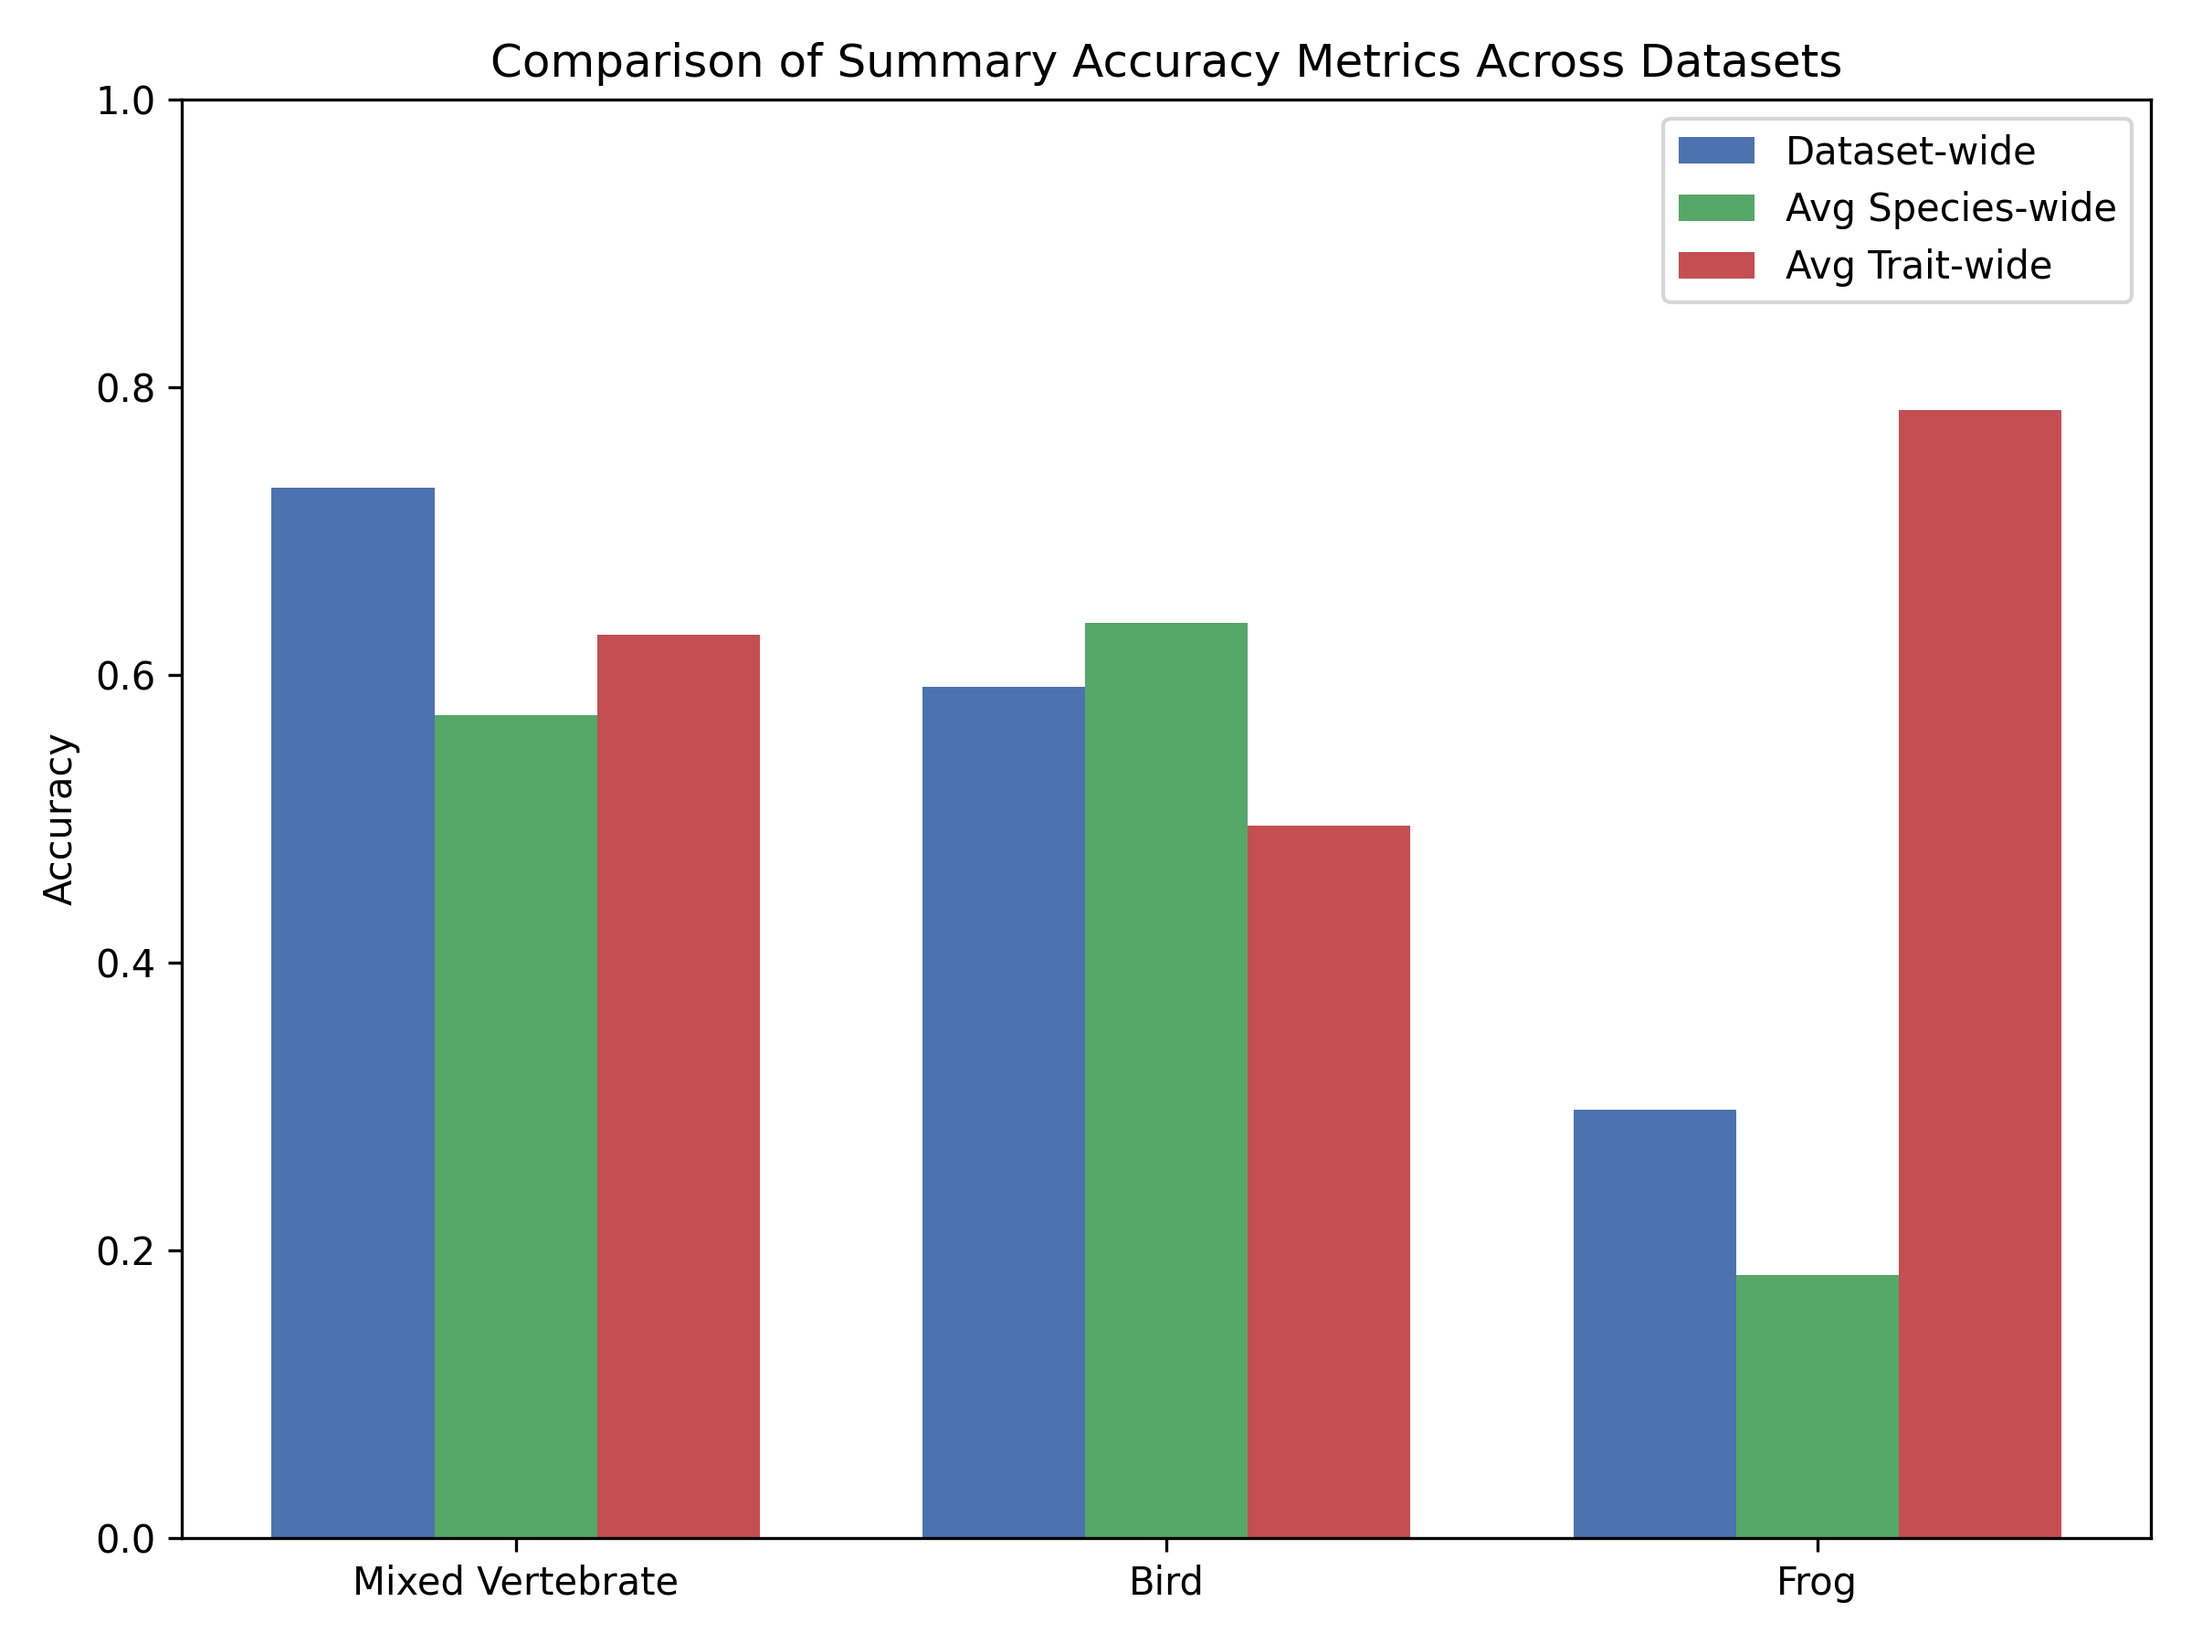
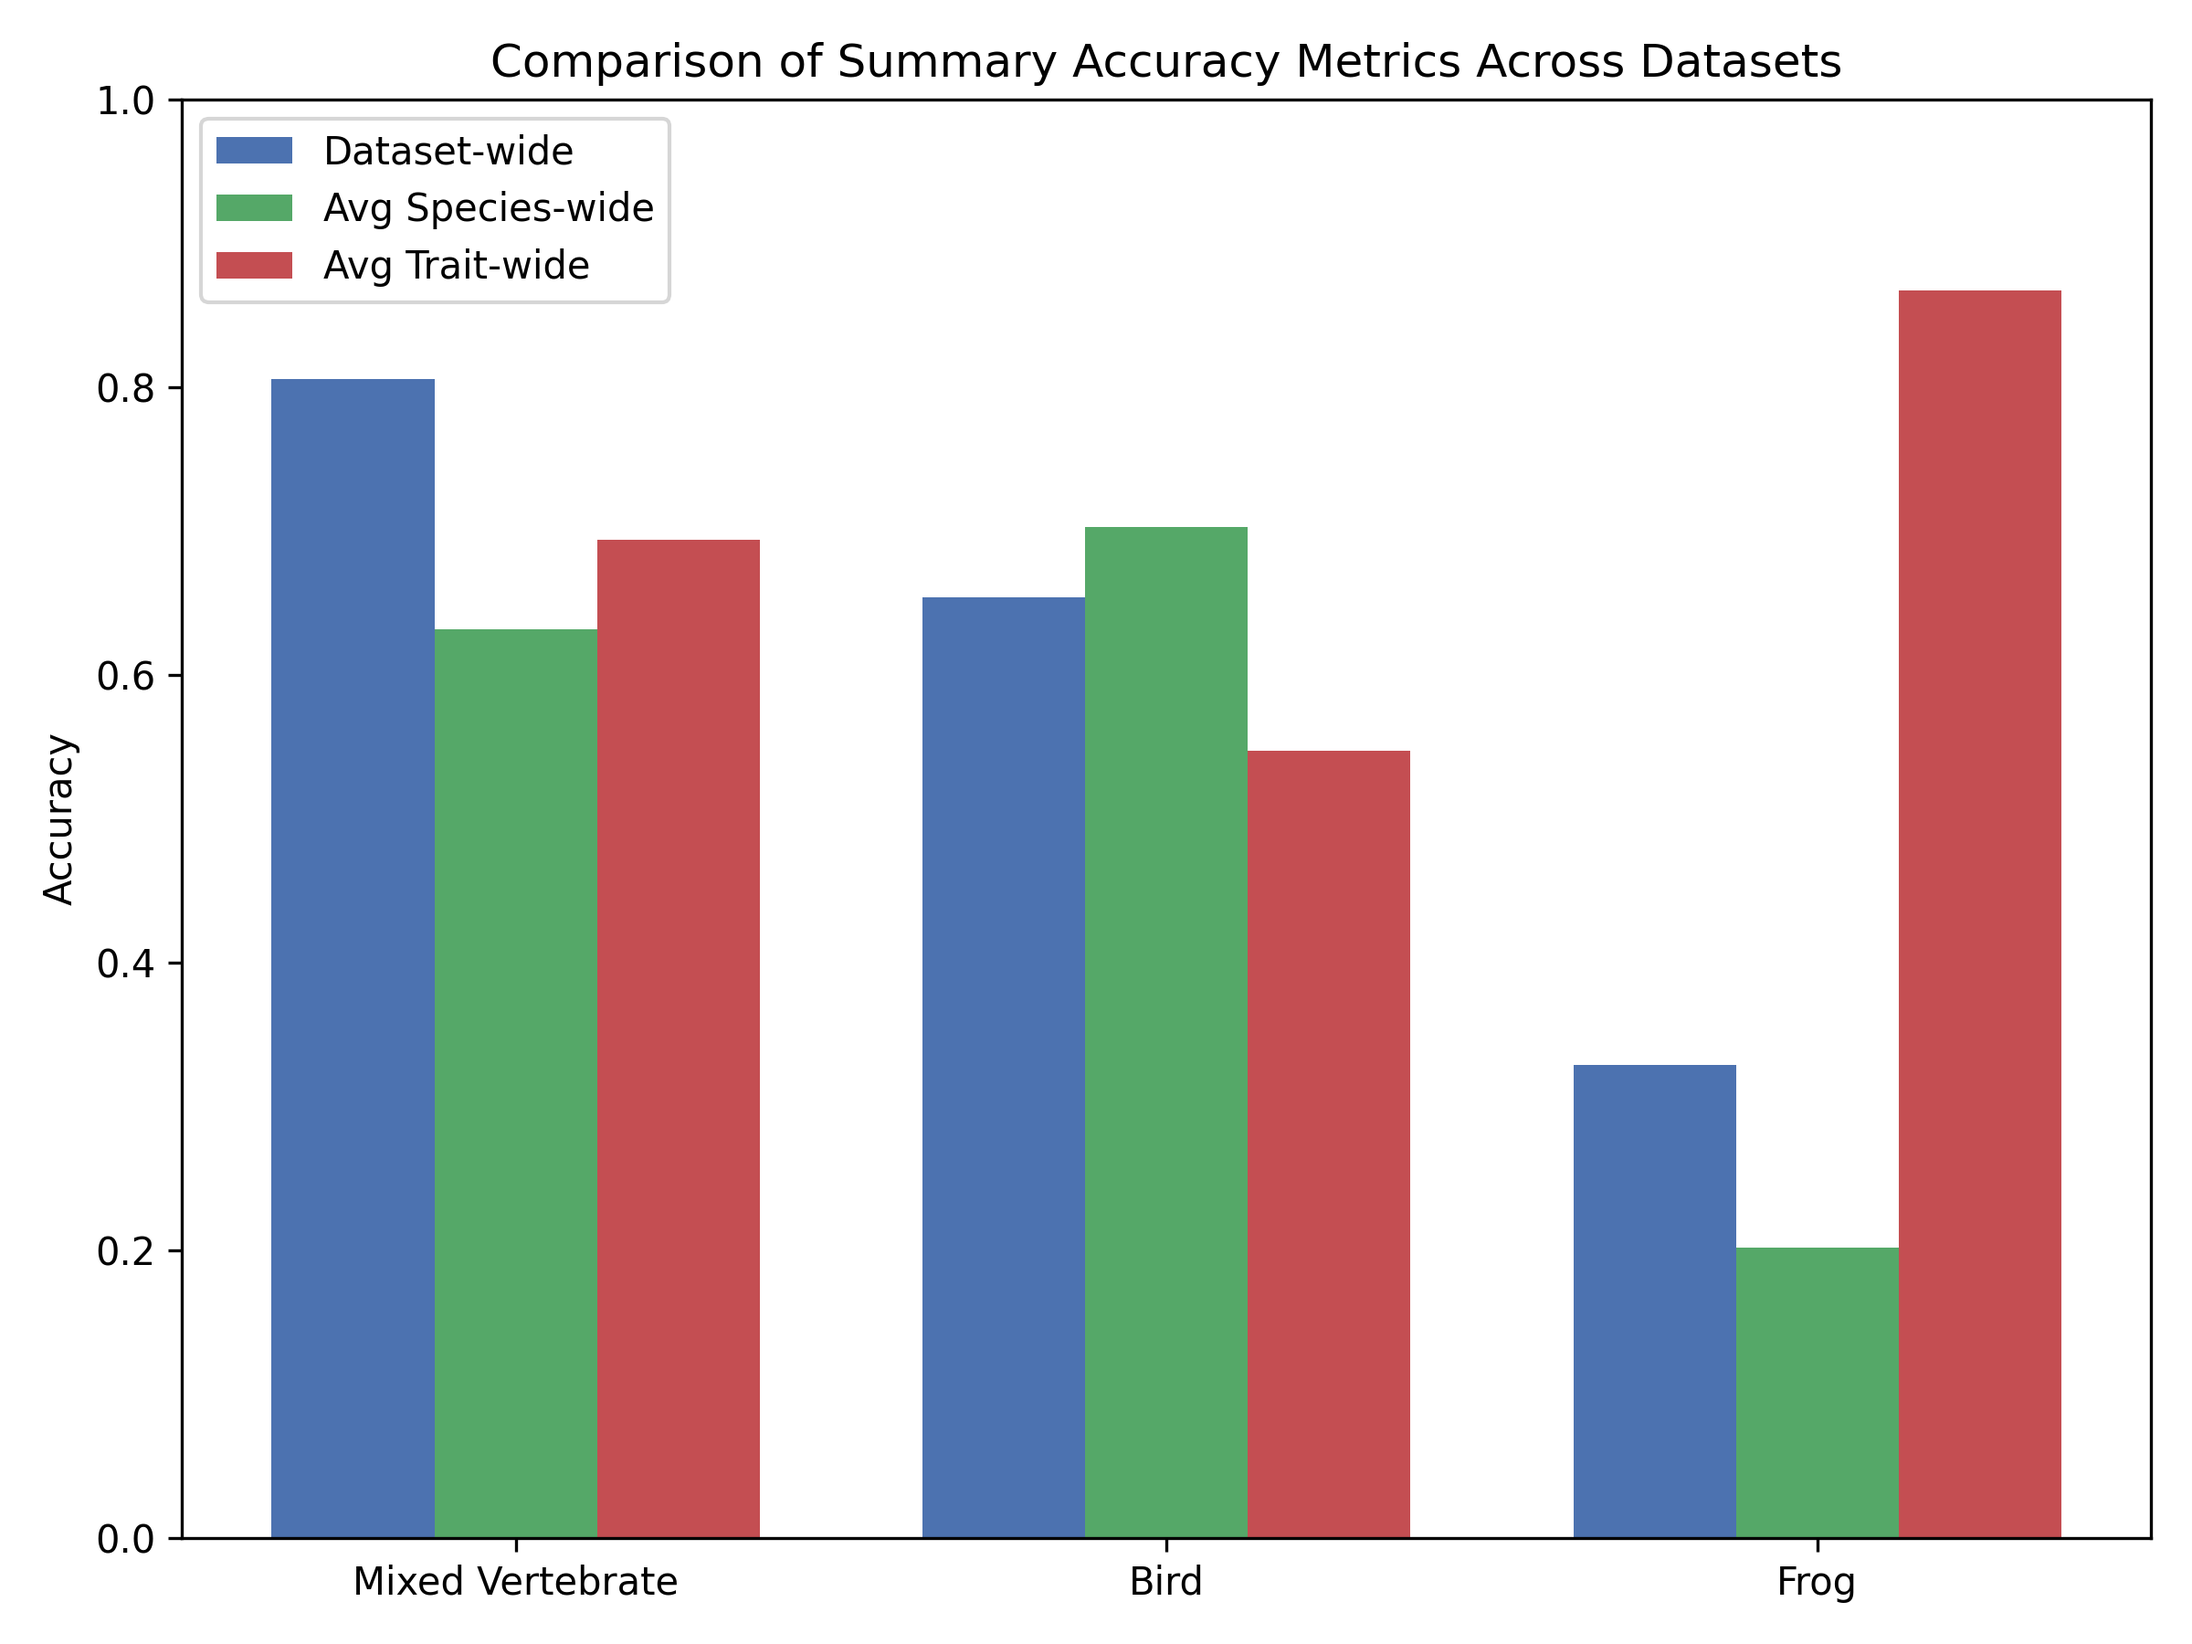
revised graphs

diff --git a/scripts/comparison_graphs.py b/scripts/comparison_graphs.py
@@ -1,26 +1,28 @@
 import matplotlib.pyplot as plt
 import numpy as np
 import os
+import pandas as pd
 
 ### OVERALL ACCURACIES ###
 
 average_species_accuracy = {
-    "Mixed Vertebrate": 0.572,
-    "Bird": 0.636,
-    "Frog": 0.183
+    "Mixed Vertebrate": 0.632,
+    "Bird": 0.703,
+    "Frog": 0.202
 }
 
 average_trait_accuracy = {
-    "Mixed Vertebrate": 0.628,
-    "Bird": 0.495,
-    "Frog": 0.784
+    "Mixed Vertebrate": 0.694,
+    "Bird": 0.547,
+    "Frog": 0.867
 }
 
 overall_accuracy = {
-    "Mixed Vertebrate": 0.730,
-    "Bird": 0.592,
-    "Frog": 0.298
+    "Mixed Vertebrate": 0.806,
+    "Bird": 0.654,
+    "Frog": 0.329
 }
+
 
 ### TRAIT ACCURACIES ###
 
@@ -175,7 +177,6 @@ frog_species_accuracy = {
 # #  FIGURE 4 — COMPARISON OF ALL SUMMARY ACCURACIES
 # # ============================================================
 
-# # Prepare data
 # datasets = ["Mixed Vertebrate", "Bird", "Frog"]
 
 # dataset_values = [overall_accuracy[d] for d in datasets]
@@ -201,27 +202,73 @@ frog_species_accuracy = {
 # plt.savefig("results/figure4_summary_accuracy.png", dpi=300)
 # plt.close()
 
-# print("All figures saved to results/")
-
 # ============================================================
 #  FIGURE 5 — OG MODEL VS CONSENSUS MODEL ACCURACY
 # ============================================================
 
-first_hit_accuracy = 0.417
-consensus_accuracy = 0.572
+# first_hit_accuracy = 0.484
+# consensus_accuracy = 0.632
 
-models = ["First-Hit Model", "Consensus Model"]
-values = [first_hit_accuracy, consensus_accuracy]
+# models = ["First-Hit Model", "Consensus Model"]
+# values = [first_hit_accuracy, consensus_accuracy]
 
-plt.figure(figsize=(6,5))
-plt.bar(models, values, color=["#C44E52", "#4C72B0"])
-plt.ylim(0,0.8)
-plt.ylabel("Accuracy")
-plt.title("Comparison of Model Accuracy: First-Hit vs Consensus")
+# plt.figure(figsize=(6,5))
+# plt.bar(models, values, color=["#C44E52", "#4C72B0"])
+# plt.ylim(0,0.8)
+# plt.ylabel("Accuracy")
+# plt.title("Comparison of Model Accuracy: First-Hit vs Consensus")
 
-for i, v in enumerate(values):
-    plt.text(i, v + 0.02, f"{v:.3f}", ha='center', fontsize=10)
+# for i, v in enumerate(values):
+#     plt.text(i, v + 0.02, f"{v:.3f}", ha='center', fontsize=10)
 
-plt.tight_layout()
-plt.savefig("results/figure5_model_comparison.png", dpi=300)
-plt.close()
+# plt.tight_layout()
+# plt.savefig("results/figure5_model_comparison.png", dpi=300)
+# plt.close()
+
+# ============================================================
+#  FIGURE 6 — MISSINGNESS HEATMAPS
+# ============================================================
+# hans_df = pd.read_csv("results/hans_output_results.csv")
+# bird_df = pd.read_csv("results/bird_output_results.csv")
+# frog_df = pd.read_csv("results/frog_output_results.csv")
+
+# datasets = {
+#     "Mixed Vertebrate": (hans_df, "results/figure6_missingness_hans.png"),
+#     "Bird": (bird_df, "results/figure6_missingness_bird.png"),
+#     "Frog": (frog_df, "results/figure6_missingness_frog.png")
+# }
+
+# def plot_trait_foundness(df, dataset_name, title, filename):
+#     trait_cols = df.columns[1:]
+#     found_percentages = {}
+
+#     for trait in trait_cols:
+#         col = df[trait]
+
+#         missing_mask = col.isna() | (col.astype(str).str.strip() == "")
+#         missing_percent = missing_mask.mean()
+
+#         found_percent = 1 - missing_percent
+#         found_percentages[trait] = found_percent
+
+#     traits_sorted = sorted(found_percentages, key=lambda x: found_percentages[x], reverse=True)
+#     values_sorted = [found_percentages[t] for t in traits_sorted]
+
+#     plt.figure(figsize=(10, 6))
+#     plt.bar(traits_sorted, values_sorted, color="#55A868")  # green = positive
+#     plt.xticks(rotation=75, ha="right")
+#     plt.ylim(0, 1)
+#     plt.ylabel("Proportion Found")
+#     plt.title(title)
+
+#     plt.tight_layout()
+#     plt.savefig(filename, dpi=300)
+#     plt.close()
+
+# for dataset_name, (df, filename) in datasets.items():
+#     plot_trait_foundness(
+#         df,
+#         dataset_name,
+#         f"Trait Extraction Completeness — {dataset_name} Dataset",
+#         filename
+#     )
